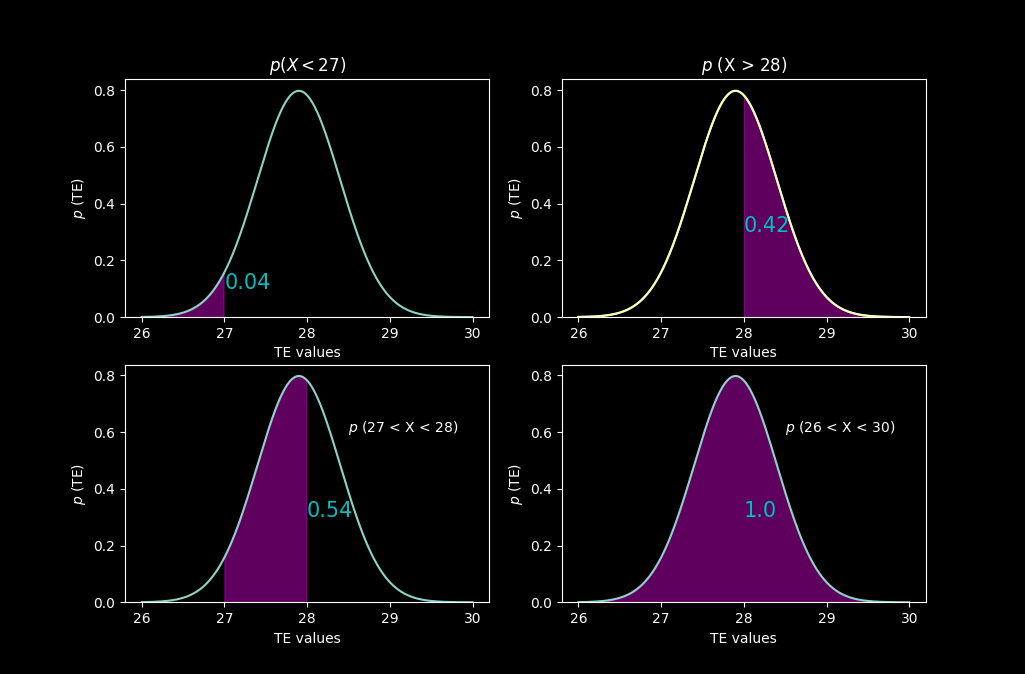
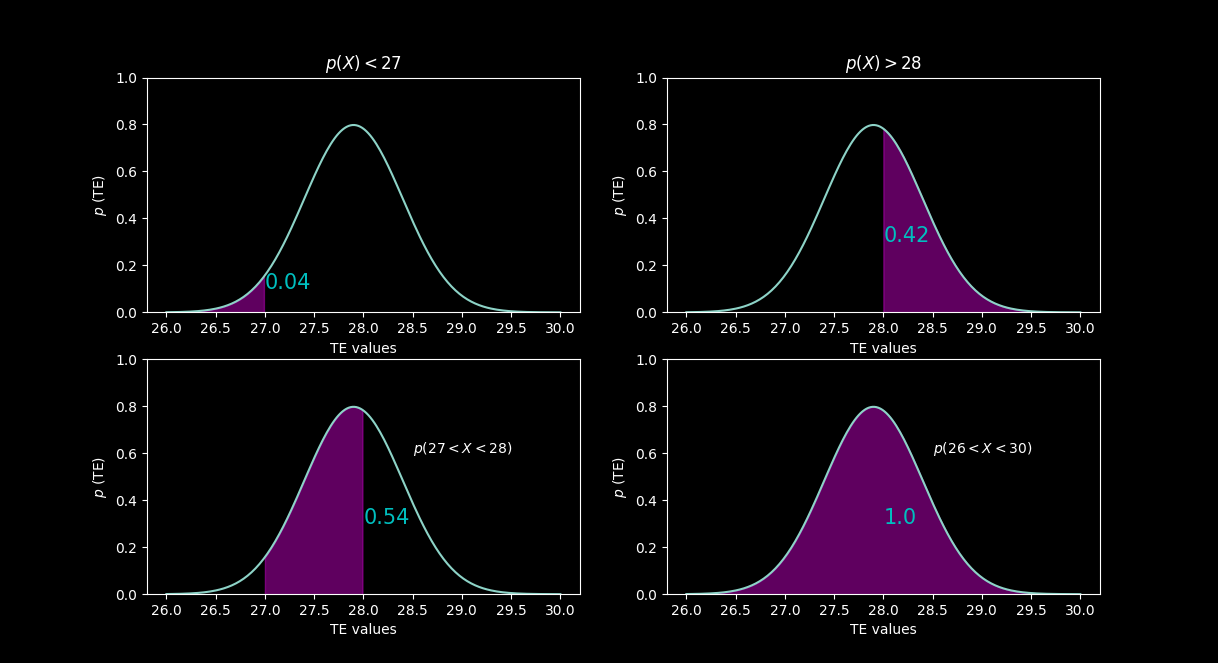
Add subplots scripts

diff --git a/docs/user_manual/graph_scripts/subplots.py b/docs/user_manual/graph_scripts/subplots.py
@@ -12,11 +12,37 @@ stdev = 0.5   # стандартное отклонение
 n = 200 # количестов элементов в linspace (массиве)
 x = np.linspace(x_min, x_max, n)  # последовательность чисел в заданном интервале 
 
-for ax in axs.flat:
+for ax in axs.flat:  #  в цикле выполняем одинаковые операции для каждого графика
     ax.set_ylim(bottom=0) # задаем начало оси y от 0
     ax.set_ylabel(r'$p$ (TE)') # называем ось y
     ax.set_xlabel('TE values') # называем ось x
     ax.plot(x, norm.pdf(x, loc=mean, scale=stdev))
 
+axs[0,0].set_title(r'$p(X) < 27$')
+axs[0,1].set_title(r'$p(X) > 28$')
+axs[1,0].text(28.5, 0.6, r'$p(27 < X < 28)$', fontsize=10, color='w') # добавляем обозначения на график
+axs[1,1].text(28.5, 0.6, r'$p(26 < X < 30)$', fontsize=10, color='w') # добавляем обозначения на график
 
+px1=np.arange(26, 27, 0.01)
+square1= norm.sf(x=27, loc=mean, scale=stdev) # вычисляем площадь графика, которая больше 27
+axs[0,0].fill_between(px1, norm.pdf(px1, loc=mean, scale=stdev), alpha=0.5, color='m')  # заливка площади графика от 26 до 27
+px_value1 = 1 - square1 # площадь графика от 26 до 27 
+axs[0,0].text(27, 0.1, round(px_value1, 2), fontsize=15, color='c') # отмечаем на графике значение площади
 
+px2=np.arange(28, 30, 0.01)
+square2=norm.sf(x=28, loc=mean, scale=stdev) # вычисляем площадь графика, которая больше 28
+axs[0,1].fill_between(px2, norm.pdf(px2, loc=mean, scale=stdev), alpha=0.5, color='m') # заливка площади графика от 28 до 30
+axs[0,1].text(28, 0.3, round(square2, 2), fontsize=15, color= 'c')
+
+px3=np.arange(27, 28, 0.01)
+square3=norm(mean,stdev).cdf(28) - norm(mean, stdev).cdf(27) # вычисляем разность площади графика, в диапозоне [26,27]  от площади [28,30]
+axs[1,0].fill_between(px3, norm.pdf(px3, loc=mean, scale=stdev), alpha=0.5, color='m')  # заливка площади графика от 27 до 28
+axs[0,1].text(28, 0.3, round(square2, 2), fontsize=15, color= 'c')
+axs[1,0].text(28, 0.3, round(square3, 2), fontsize=15, color='c')
+
+px4=np.arange(26, 30, 0.01)
+square4=norm(mean, stdev).sf(26) # вычисляем площадь графика в диапозоне [26,30]
+axs[1,1].fill_between(px4, norm.pdf(px4, loc=mean, scale=stdev), alpha=0.5, color='m') # заливка площади графика от 26 до 30
+axs[1,1].text(28, 0.3, round(square4, 2), fontsize=15, color='c')
+
+plt.show()

diff --git a/docs/user_manual/graph_scripts/m_expec.py b/docs/user_manual/graph_scripts/m_expec.py
@@ -16,5 +16,6 @@ ax.grid(alpha=0.8,color='b') # добавляем сетку с прозрачн
 ax.vlines(x=mean, ymin=0, ymax=0.795, linewidths=2.0) # отрисовка линии по координатам x, y и верхней границе
 ax.set_ylabel(r'$p$ (TE)') # называем ось y
 ax.set_xlabel('TE values') # называем ось x
+ax.text(28, 0.1,r'$\mu $', fontsize=15, color='w') # ставим обозначение мат. ожидания 
 ax.plot(x, norm.pdf(x, loc=mean, scale=stdev)) # рисуем график 
 plt.show()

diff --git a/docs/user_manual/ReadMe.md b/docs/user_manual/ReadMe.md
@@ -31,11 +31,9 @@ $$ μ ={\sum x \over n}$$
 
 $$ D={\sum (x-\mu)^2 \over n}$$
 
-Квадрат в формуле нужен на случай отрицательных значений. Возвращаясь к нашему примеру, дисперсия будет равна 0.695. Сама по себе дисперсия не очень информативна, более четкое понимание насколько рассеяны значения дает стандартное отклонение:
+Квадрат в формуле нужен на случай отрицательных значений. Сама по себе дисперсия не очень информативна, более четкое понимание насколько рассеяны значения дает стандартное отклонение:
 
 $$ \sigma ={\sqrt D} $$
-
-При $D$ = 0.695 получим $ \sigma ={\sqrt {0.695} \approx 0.833667} $ °C
 
 <p align="center">
 <img align="center" src="../../readme_images/st_dev.png"> </p>
